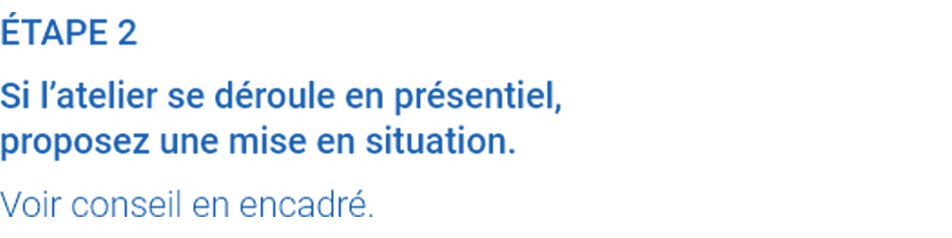
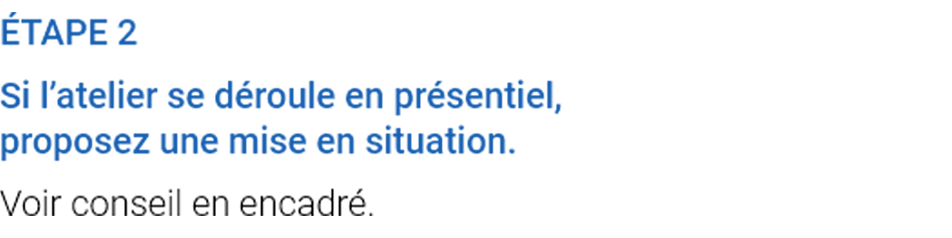
alterações

Changed region(s): [[0.0, 0.7941, 0.396, 0.9118]]

diff --git a/chap2/chapter-2-driver.html b/chap2/chapter-2-driver.html
@@ -356,7 +356,7 @@ DES FACTEURS</h1>
                 <img class="case-study" src="img/case-study-1-1@1x.png" alt="Case Study 1" />
                 <div class="retngulo-47"></div>
                 <div class="grupo-188">
-                  <div class="explore gaegu-bold-white-21px">EXPLORER</div>
+                  <div class="explore gaegu-bold-white-21px exploresiz">EXPLORER</div>
                   <div class="grupo-39-2">
                     <div class="grupo-38">
                       <div class="grupo-container-7">
@@ -1326,7 +1326,7 @@ personnes chargées d’animer chaque groupe.</span
                 <img class="case-study-1" src="img/case-study-1-1@1x.png" alt="Case Study 1" />
                 <div class="retngulo-47-1"></div>
                 <div class="grupo-188-1">
-                  <div class="explore-1 gaegu-bold-white-21px">EXPLORER</div>
+                  <div class="explore-1 gaegu-bold-white-21px exploresiz>EXPLORER</div>
                   <div class="grupo-39-3">
                     <div class="grupo-38-1">
                       <div class="grupo-container-27">
@@ -1687,7 +1687,7 @@ Butchers paper"
                 <img class="case-study-2" src="img/case-study-1-1@1x.png" alt="Case Study 1" />
                 <div class="retngulo-47-2"></div>
                 <div class="grupo-188-2">
-                  <div class="explore-2 gaegu-bold-white-21px">EXPLORER</div>
+                  <div class="explore-2 gaegu-bold-white-21px exploresiz">EXPLORER</div>
                   <div class="grupo-39-4">
                     <div class="grupo-38-2">
                       <div class="grupo-container-33">
@@ -2152,7 +2152,7 @@ sur le graphique."
                 <img class="case-study-4" src="img/case-study-1-1@1x.png" alt="Case Study 1" />
                 <div class="retngulo-47-3"></div>
                 <div class="grupo-188-3">
-                  <div class="explore-3 gaegu-bold-white-21px">EXPLORER</div>
+                  <div class="explore-3 gaegu-bold-white-21px exploresiz">EXPLORER</div>
                   <div class="grupo-39-5">
                     <div class="grupo-38-3">
                       <div class="grupo-container-37">

diff --git a/chap2/chapter-2-systems-case-study-4.html b/chap2/chapter-2-systems-case-study-4.html
@@ -852,7 +852,7 @@ Cartographie du système de la CPS selon trois scénarios"
                 <div class="grupo-3682-2"></div>
                 <div class="grupo-3683-2"></div>
                 <div class="grupo-3677-2"></div>
-                <div class="grupo-3678-2"></div>s
+                <div class="grupo-3678-2"></div>
                 <div class="grupo-3679-2"></div>
               </div>
             </div>

diff --git a/chap2/css/styleguide.css b/chap2/css/styleguide.css
@@ -51,7 +51,7 @@
 }
 
 .roboto-light-black-20px-2 {
-  color: var(--black-2);
+  color: var(--green-blue);
   font-family: var(--font-family-roboto);
   font-size: var(--font-size-m);
   font-style: normal;
@@ -479,7 +479,7 @@
 }
 
 .roboto-light-black-15px-3 {
-  color: var(--black-2);
+  color: var(--green-blue);
   font-family: var(--font-family-roboto);
   font-size: var(--font-size-s);
   font-style: normal;
